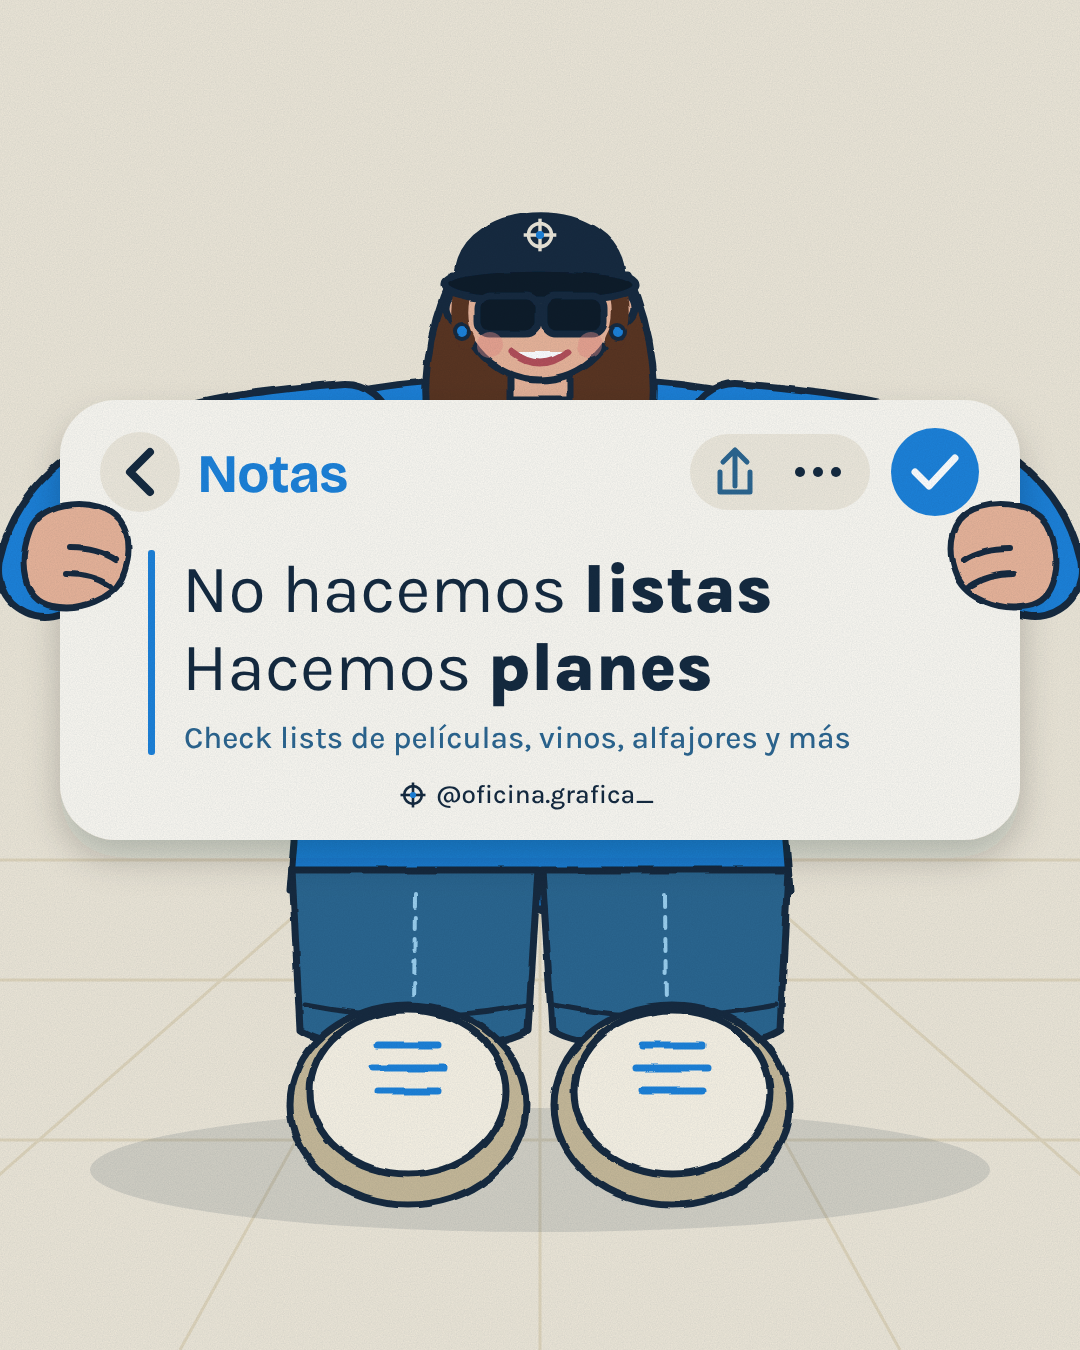
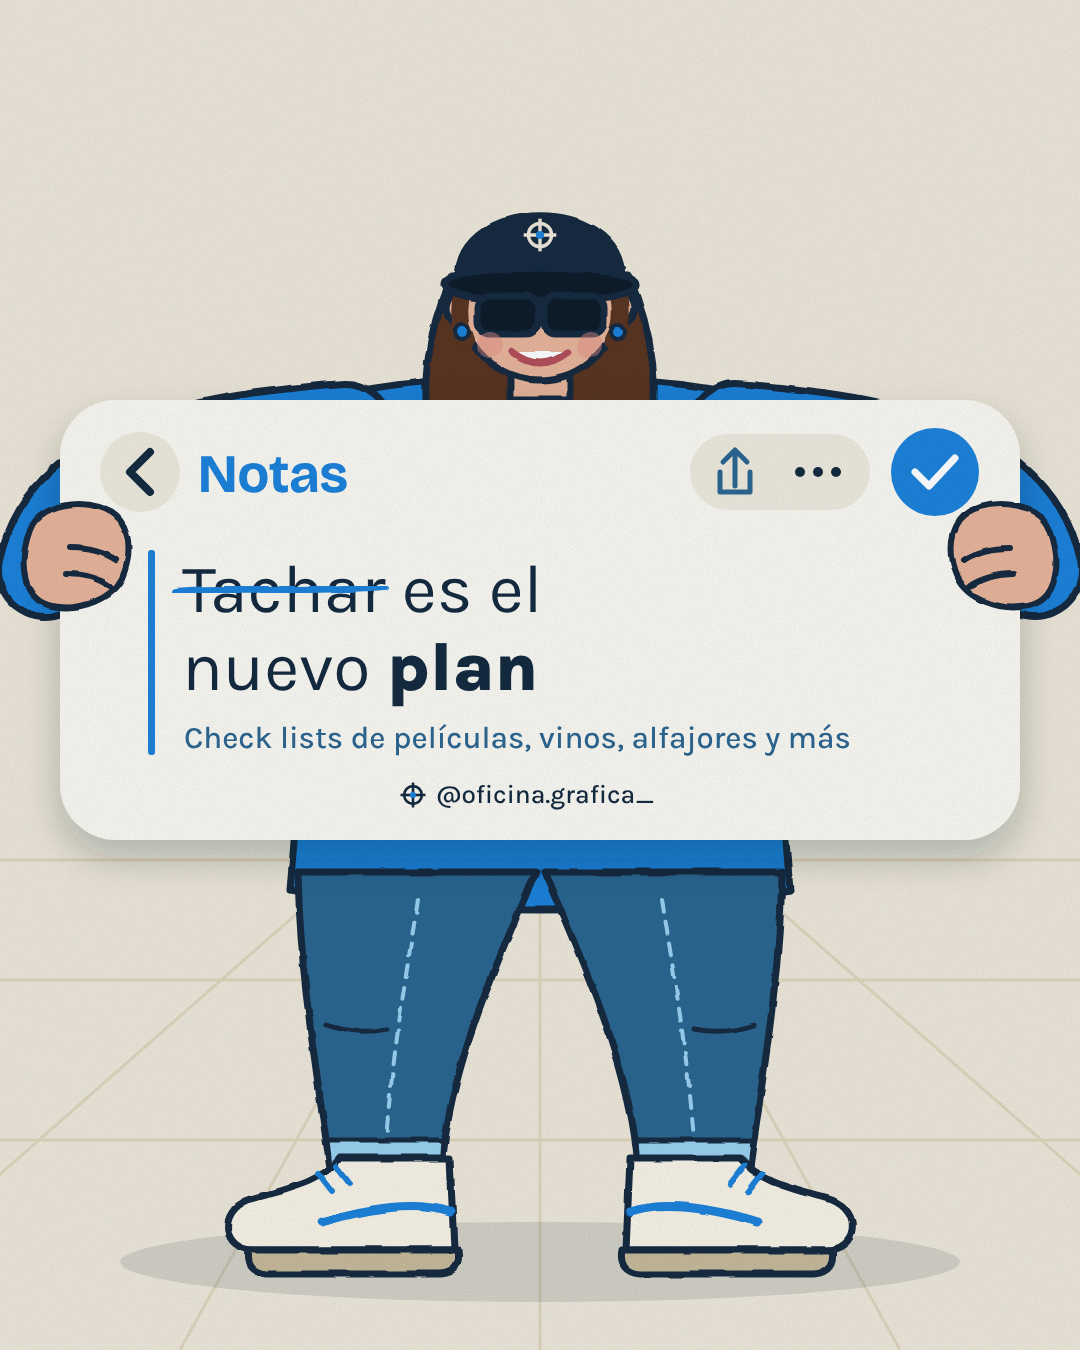
Cartel: frase «Tachar es el nuevo plan» y piernas rectas más naturales
Claude-Session: https://claude.ai/code/session_01FGxw9aPArw9pn3yxwBbtRR

Changed region(s): [[0.0917, 0.6222, 0.9167, 0.9644], [0.1528, 0.4044, 0.7333, 0.5289]]

diff --git a/redes/cartel/posteo.html b/redes/cartel/posteo.html
@@ -31,26 +31,28 @@
     <path d="M0 860H1080M0 980H1080M0 1140H1080"/>
     <path d="M540 700L-200 1350M540 700L180 1350M540 700L540 1350M540 700L900 1350M540 700L1280 1350"/>
   </g>
-  <ellipse cx="540" cy="1170" rx="450" ry="62" fill="#142A40" opacity=".12"/>
+  <ellipse cx="540" cy="1262" rx="420" ry="40" fill="#142A40" opacity=".12"/>
 
   <g transform="translate(0 100)">
   <g filter="url(#rough)" stroke="#142A40" stroke-width="7" stroke-linejoin="round" stroke-linecap="round">
     <!-- torso (buzo azul vivo): el ruedo queda detrás de las piernas -->
     <path d="M330 300C390 270 690 270 750 300L790 790Q540 830 290 790Z" fill="#1C82D9"/>
-    <!-- piernas estiradas hacia quien mira: en escorzo se ven cortas y anchas,
-         con las suelas de las zapatillas grandes en primer plano -->
-    <path d="M292 770H538L528 930C490 955 335 955 300 930Z" fill="#2C6690"/>
-    <path d="M788 770H542L552 930C590 955 745 955 780 930Z" fill="#2C6690"/>
-    <path d="M415 795L414 915M665 795L666 915" fill="none" stroke="#9BD0EF" stroke-width="4" stroke-dasharray="12 10"/>
-    <path d="M305 905q110 22 222 0M553 905q110 22 222 0" fill="none" stroke-width="5"/>
-    <!-- zapatillas de frente, con la suela hacia nosotros -->
+    <!-- piernas estiradas hacia adelante, apenas abiertas en V: muslo ancho, rodilla y tobillo más finos -->
+    <path d="M298 772C300 880 318 980 330 1068L442 1068C448 975 492 872 536 772Z" fill="#2C6690"/>
+    <path d="M782 772C780 880 762 980 750 1068L638 1068C632 975 588 872 544 772Z" fill="#2C6690"/>
+    <path d="M418 800C405 880 392 960 386 1040M662 800C675 880 688 960 694 1040" fill="none" stroke="#9BD0EF" stroke-width="4" stroke-dasharray="12 10"/>
+    <path d="M326 925q30 10 60 4M754 925q-30 10-60 4" fill="none" stroke-width="5"/>
+    <path d="M327 1040L444 1040L442 1068L330 1068ZM753 1040L636 1040L638 1068L750 1068Z" fill="#9BD0EF" stroke-width="5"/>
+    <!-- zapatillas de perfil, con la punta cayendo hacia afuera -->
     <g>
-      <ellipse cx="408" cy="1005" rx="118" ry="100" fill="#C7B999"/>
-      <ellipse cx="408" cy="992" rx="98" ry="82" fill="#F8F2E4"/>
-      <path d="M378 945h60M372 968h72M378 991h60" stroke="#1C82D9" stroke-width="7"/>
-      <ellipse cx="672" cy="1005" rx="118" ry="100" fill="#C7B999"/>
-      <ellipse cx="672" cy="992" rx="98" ry="82" fill="#F8F2E4"/>
-      <path d="M642 945h60M636 968h72M642 991h60" stroke="#1C82D9" stroke-width="7"/>
+      <path transform="translate(22 0)" d="M428 1058L432 1150L232 1150C200 1150 196 1112 226 1100C268 1088 300 1082 318 1058Z" fill="#F8F2E4"/>
+      <path transform="translate(22 0)" d="M226 1150H436Q440 1172 418 1174H244Q222 1172 226 1150Z" fill="#C7B999"/>
+      <path transform="translate(22 0)" d="M300 1122C340 1110 390 1100 428 1112" fill="none" stroke="#1C82D9" stroke-width="9"/>
+      <path transform="translate(22 0)" d="M296 1074l14 18M314 1066l14 18" stroke="#1C82D9" stroke-width="6"/>
+      <path transform="translate(-22 0)" d="M652 1058L648 1150L848 1150C880 1150 884 1112 854 1100C812 1088 780 1082 762 1058Z" fill="#F8F2E4"/>
+      <path transform="translate(-22 0)" d="M854 1150H644Q640 1172 662 1174H836Q858 1172 854 1150Z" fill="#C7B999"/>
+      <path transform="translate(-22 0)" d="M780 1122C740 1110 690 1100 652 1112" fill="none" stroke="#1C82D9" stroke-width="9"/>
+      <path transform="translate(-22 0)" d="M784 1074l-14 18M766 1066l-14 18" stroke="#1C82D9" stroke-width="6"/>
     </g>
 
     <!-- brazos -->
@@ -91,8 +93,10 @@
     <circle cx="935" cy="372" r="44" fill="#1C82D9"/>
     <path d="M915 372l14 14 26-28" fill="none" stroke="#fff" stroke-width="7" stroke-linecap="round" stroke-linejoin="round"/>
     <rect x="148" y="450" width="7" height="205" rx="3" fill="#1C82D9"/>
-    <text class="karla" x="182" y="512" font-size="68" fill="#142A40" font-weight="400">No hacemos <tspan font-weight="800">listas</tspan></text>
-    <text class="karla" x="182" y="590" font-size="68" fill="#142A40" font-weight="400">Hacemos <tspan font-weight="800">planes</tspan></text>
+    <text id="l1" class="karla" x="182" y="512" font-size="68" fill="#142A40" font-weight="400"><tspan id="tachar">Tachar</tspan> es el</text>
+    <!-- "Tachar", tachado a mano -->
+    <path id="raya" d="M176 492C230 486 300 494 384 487" fill="none" stroke="#1C82D9" stroke-width="8" stroke-linecap="round" filter="url(#rough)"/>
+    <text class="karla" x="182" y="590" font-size="68" fill="#142A40" font-weight="400">nuevo <tspan font-weight="800">plan</tspan></text>
     <text class="karla" x="184" y="648" font-size="31" fill="#2C6690" font-weight="500">Check lists de películas, vinos, alfajores y más</text>
     <g transform="translate(400 682)">
       <svg width="26" height="26" color="#142A40"><use href="#mira"/></svg>
